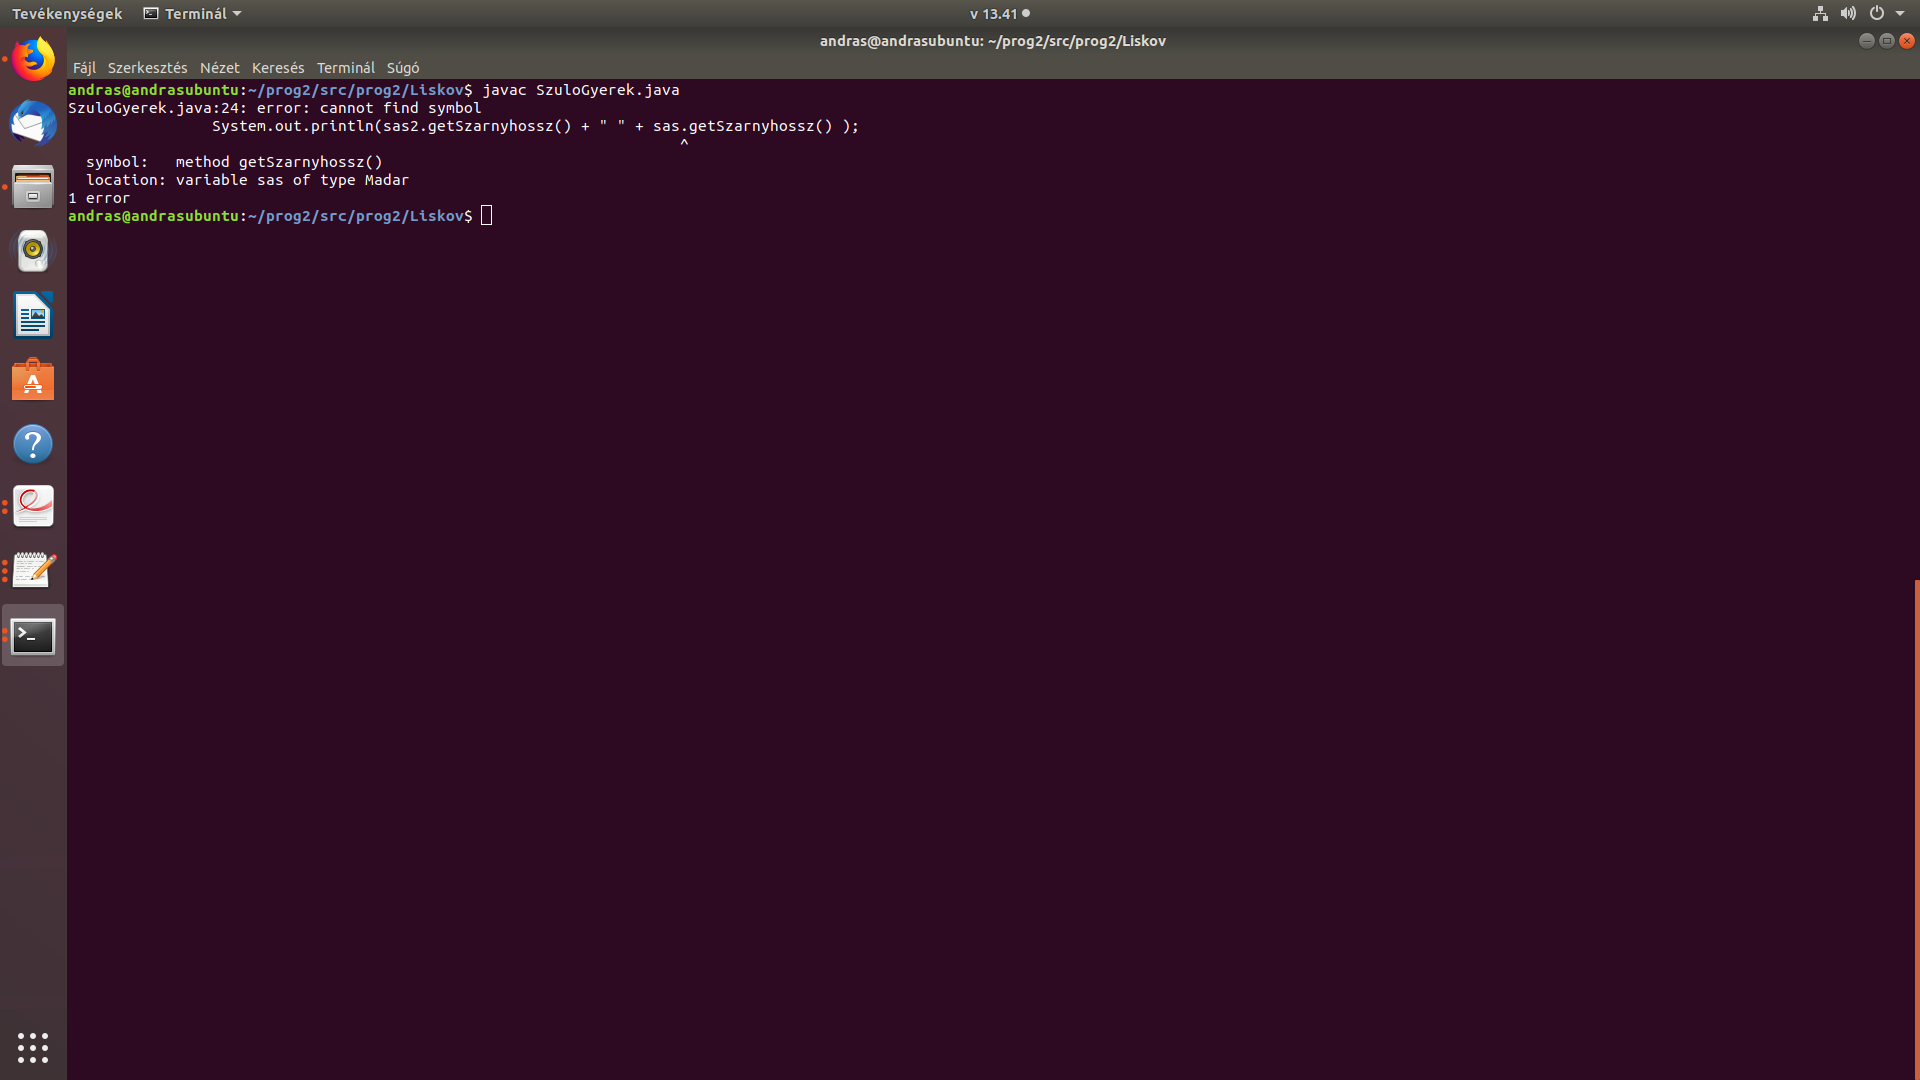
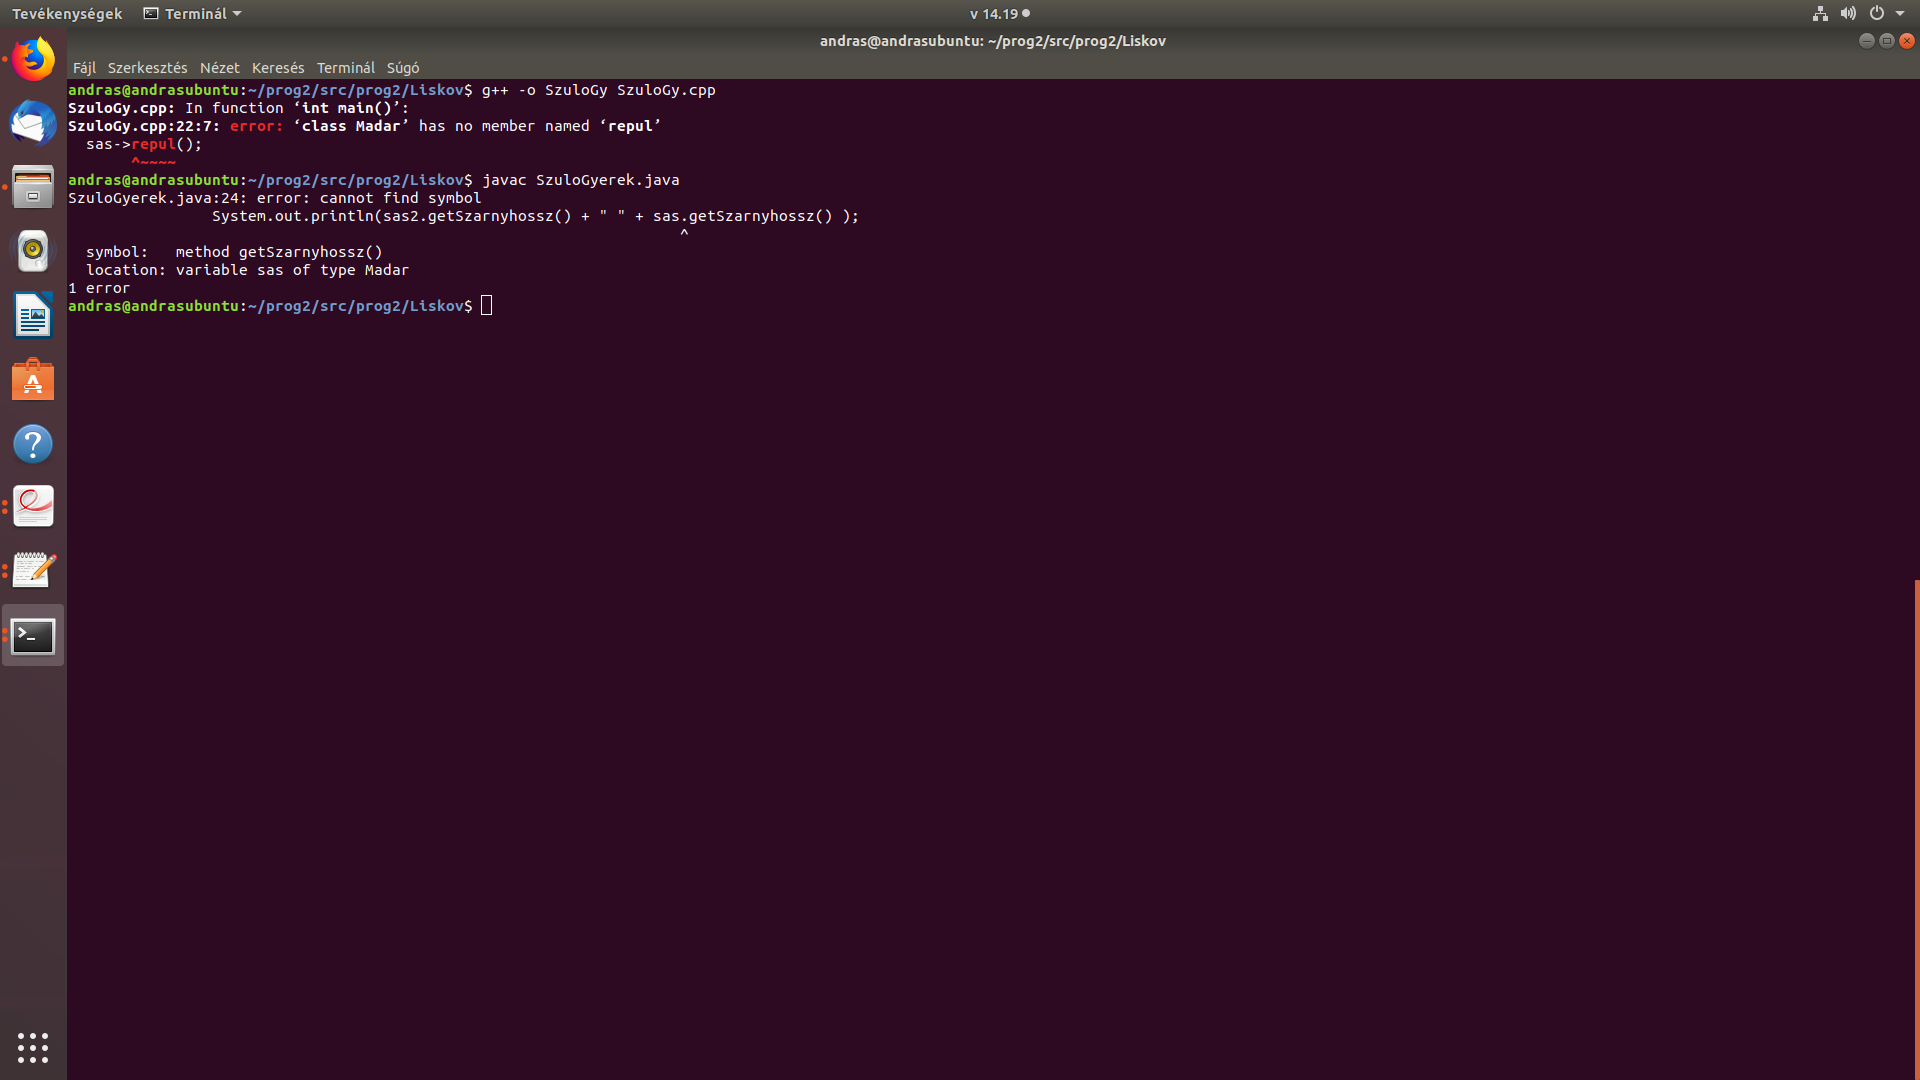
liskov

Changed region(s): [[0.0312, 0.0611, 0.4375, 0.3056], [0.3438, 0.1833, 0.4375, 0.2139]]

diff --git a/src/prog2/Liskov/SzuloGy.cpp b/src/prog2/Liskov/SzuloGy.cpp
@@ -1,0 +1,25 @@
+#include<iostream>
+
+class Madar{
+public: 
+	
+};
+
+class Sas : public Madar{
+public:
+	void repul() {
+		std::cout << "Repül";
+	}
+
+};
+
+
+int main(){
+
+	Madar* sas = new Sas();
+	Sas* sas2 = new Sas();
+
+	sas->repul();
+	sas2->repul();
+	
+}
